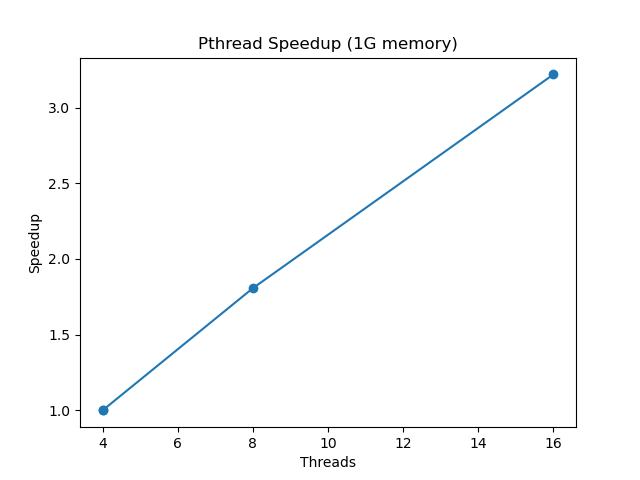
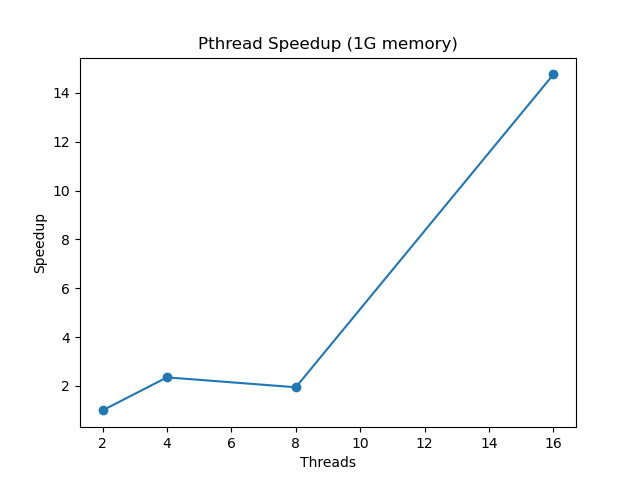
Preliminary resutls

diff --git a/3way-pthread/graph.py b/3way-pthread/graph.py
@@ -3,12 +3,12 @@ import matplotlib.pyplot as plt
 
 df = pd.read_csv("results.csv")
 
+df_avg = df.groupby(["threads", "mem"], as_index=False)["time"].mean()
+
 mem_levels = ["1G", "3G", "1500M", "512M", "128M", "64M"]
 
-# maybe change to have the graphs overlay with different colors to use one graph instead of multiple
-
 for mem in mem_levels:
-    df_m = df[df["mem"] == mem]
+    df_m = df_avg[df_avg["mem"] == mem]
 
     if df_m.empty:
         print(f"No data for {mem}")
